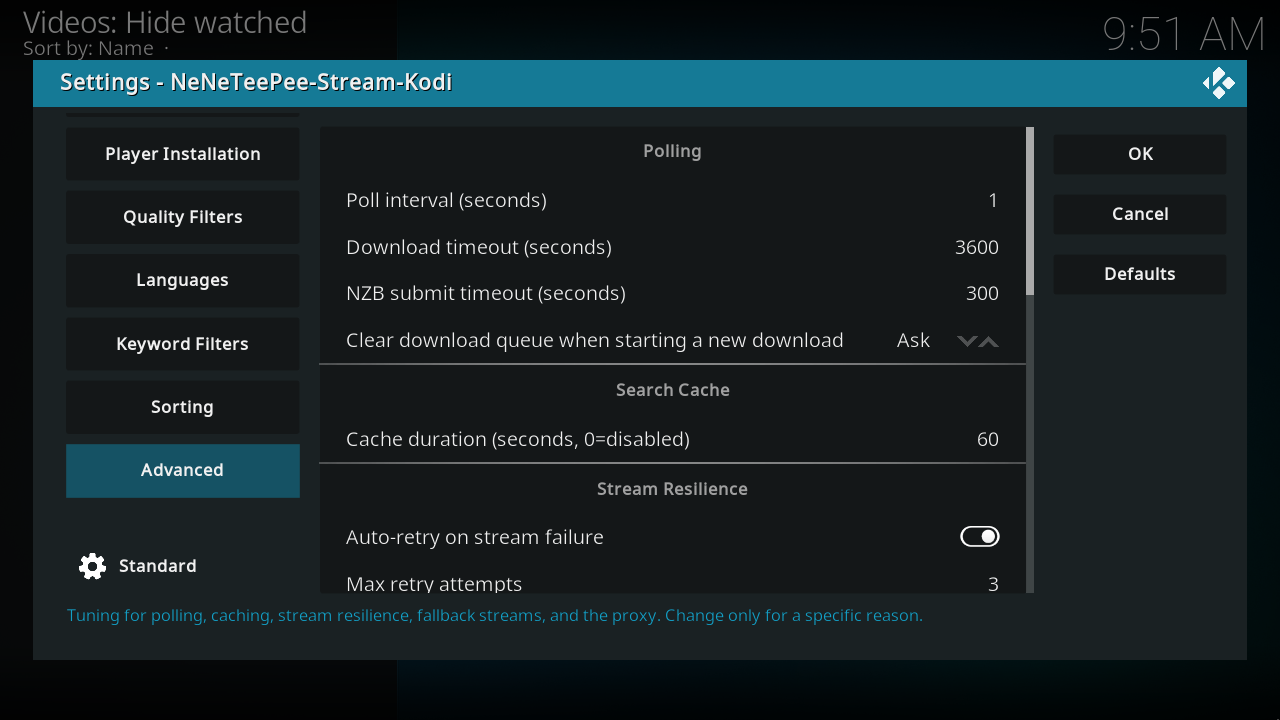
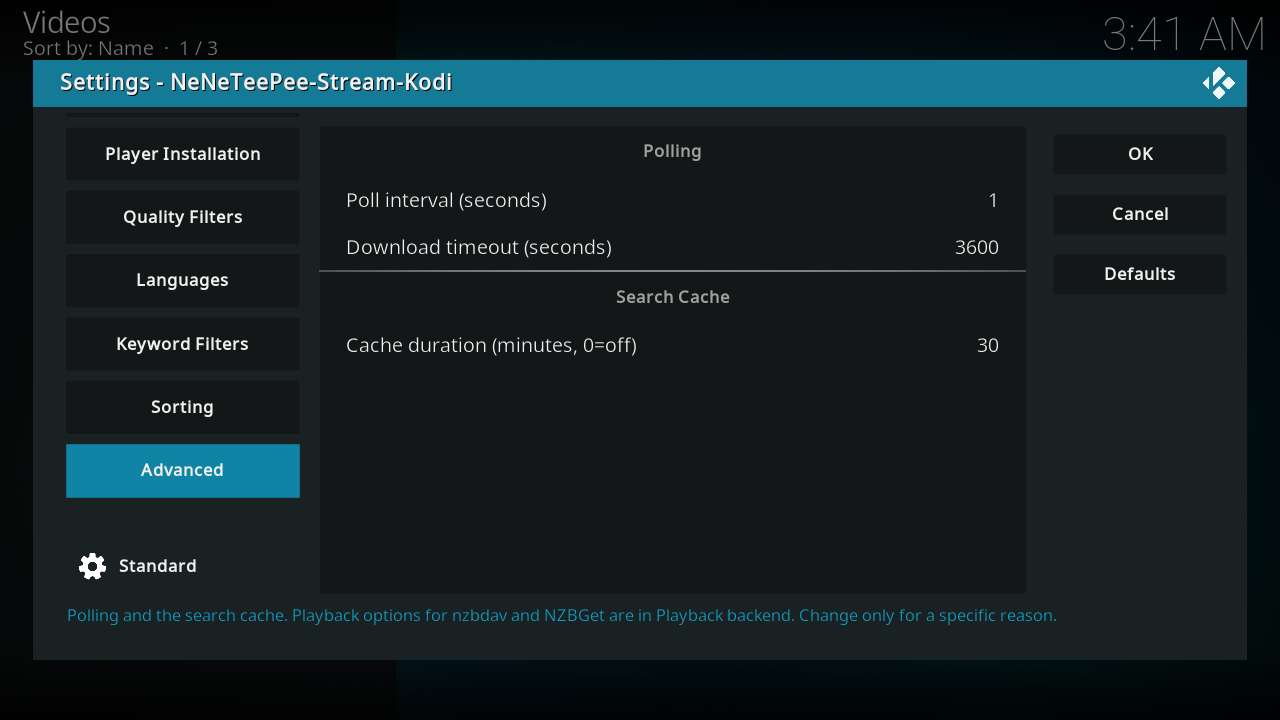
Docs: recapture Playback backend and Advanced screenshots
Recaptured on a fresh OrbStack VM (kodi-shots: Ubuntu 24.04, Kodi 21.3,
Estuary, 1280x720, Standard level) from this branch, with the same
synthetic example values as before.

- The Playback backend views for nzbdav (3 scrolled views), NZBGet (2),
  and StreamNZB show the moved options and the per-backend visibility.
- Advanced now fits on one screen (polling and the search cache), so
  advanced-02.png and advanced-03.png are removed.
- The capture manifest hashes and Capture details are updated, and the
  "screenshot predates the move" notes are removed.

The same session confirmed the live show/hide in real Kodi: switching
the backend in an open dialog shows and hides the moved options without
leaving the tab, and Kodi honors operator="!is" for stream resilience.

diff --git a/docs-site/settings/index.md b/docs-site/settings/index.md
@@ -19,7 +19,9 @@ The tab guides explain every option. This includes buttons and hidden state fiel
 
 ## Capture details
 
-These are real 1280 × 720 screenshots from the `kodi-ebml` OrbStack VM using Kodi's Estuary skin. The add-on files came from `origin/main` at commit [`db07f61d4090a0c89ec8461ee9b3ca34f9607aa6`](https://github.com/Appz4Fun/NeNeTeePee-Stream-Kodi/commit/db07f61d4090a0c89ec8461ee9b3ca34f9607aa6), fetched on October 3, 2026. The remote has no `master` branch.
+These are real 1280 × 720 screenshots from Kodi 21.3 using the Estuary skin. Most tabs came from the `kodi-ebml` OrbStack VM. Their add-on files came from `origin/main` at commit [`db07f61d4090a0c89ec8461ee9b3ca34f9607aa6`](https://github.com/Appz4Fun/NeNeTeePee-Stream-Kodi/commit/db07f61d4090a0c89ec8461ee9b3ca34f9607aa6), fetched on October 3, 2026. The remote has no `master` branch.
+
+The **Playback backend** and **Advanced** screenshots were recaptured on October 11, 2026, after options moved between those tabs. They came from a fresh `kodi-shots` OrbStack VM, with the add-on installed from commit [`5a50676c56f2b4c2fa19a2f52df6157a1a939e18`](https://github.com/Appz4Fun/NeNeTeePee-Stream-Kodi/commit/5a50676c56f2b4c2fa19a2f52df6157a1a939e18).
 
 Debug overlays were turned off before capture. Connection examples use `192.0.2.10` and dummy credentials. They do not show working servers or account secrets. Scrolled views overlap to keep the surrounding controls visible. The [capture manifest](../images/kodi/capture-manifest.json) records the context and checksum for each screenshot. The **Standard** setting level shows this add-on's visible options; hidden migration fields do not appear in screenshots.
 

diff --git a/docs-site/settings/backend.md b/docs-site/settings/backend.md
@@ -6,16 +6,25 @@ These options appear in the same tab, after the selected backend's connection fi
 
 ## Kodi screenshots
 
-!!! note
-    The screenshots predate moving the submit, resilience, fallback, proxy, and pass-through options from **Advanced** to this tab. Current builds show those options after the connection fields.
+With **nzbdav / InfiniDysk** selected, the list scrolls through the connection fields and every playback option:
 
-![Playback backend, view 1](../images/kodi/backend-nzbdav.png)
+![Playback backend with nzbdav / InfiniDysk, view 1](../images/kodi/backend-nzbdav.png)
 
-![Playback backend, view 2](../images/kodi/backend-nzbget.png)
+![Playback backend with nzbdav / InfiniDysk, view 2](../images/kodi/backend-nzbdav-02.png)
 
-![Playback backend, view 3](../images/kodi/backend-streamnzb.png)
+![Playback backend with nzbdav / InfiniDysk, view 3](../images/kodi/backend-nzbdav-03.png)
 
-Captured on the OrbStack Kodi VM from commit `db07f61`. Debug overlays are off, and credentials use example values. [Capture details](index.md#capture-details).
+With **NZBGet** selected, the stream resilience options follow the NZBGet connection fields:
+
+![Playback backend with NZBGet, view 1](../images/kodi/backend-nzbget.png)
+
+![Playback backend with NZBGet, view 2](../images/kodi/backend-nzbget-02.png)
+
+With **StreamNZB** selected, only the server URL and stream token appear:
+
+![Playback backend with StreamNZB](../images/kodi/backend-streamnzb.png)
+
+Captured on the OrbStack Kodi VM from commit `5a50676`. Debug overlays are off, and credentials use example values. [Capture details](index.md#capture-details).
 
 ## Every option
 

diff --git a/docs-site/backends/nzbdav.md b/docs-site/backends/nzbdav.md
@@ -7,12 +7,13 @@
 
 Use [nzbdav](https://github.com/nzbdav-dev/nzbdav) or [InfiniDysk](https://www.infinidysk.com/) for server installation and configuration instructions. Start with a running server that Kodi can reach.
 
-![Example add-on settings for nzbdav](../images/kodi/backend-nzbdav.png)
+![Example add-on settings for nzbdav, view 1](../images/kodi/backend-nzbdav.png)
 
-!!! note
-    This screenshot predates moving the submit, retry, fallback, proxy, and pass-through options from **Advanced** to **Playback backend**. Current builds list those options after the connection fields.
+![Example add-on settings for nzbdav, view 2](../images/kodi/backend-nzbdav-02.png)
 
-This is a real Kodi screenshot from the captured `origin/main` build, using example values. See the [complete Playback backend settings](../settings/backend.md) for every option and commit-pinned source footnotes.
+![Example add-on settings for nzbdav, view 3](../images/kodi/backend-nzbdav-03.png)
+
+These are real Kodi screenshots from the [captured add-on build](../settings/index.md#capture-details), using example values. See the [complete Playback backend settings](../settings/backend.md) for every option and commit-pinned source footnotes.
 
 ## Configure the add-on
 

diff --git a/docs-site/backends/nzbget.md b/docs-site/backends/nzbget.md
@@ -7,12 +7,11 @@
 
 Use [NZBGet](https://github.com/nzbgetcom/nzbget) for server installation and configuration instructions. Start with a running server that Kodi can reach.
 
-![Example add-on settings for nzbget](../images/kodi/backend-nzbget.png)
+![Example add-on settings for nzbget, view 1](../images/kodi/backend-nzbget.png)
 
-!!! note
-    This screenshot predates moving the stream resilience options from **Advanced** to **Playback backend**. Current builds list those options after the connection fields. The other moved options apply only to nzbdav / InfiniDysk.
+![Example add-on settings for nzbget, view 2](../images/kodi/backend-nzbget-02.png)
 
-This is a real Kodi screenshot from the captured `origin/main` build, using example values. See the [complete Playback backend settings](../settings/backend.md) for every option and commit-pinned source footnotes.
+These are real Kodi screenshots from the [captured add-on build](../settings/index.md#capture-details), using example values. See the [complete Playback backend settings](../settings/backend.md) for every option and commit-pinned source footnotes.
 
 ## Configure the add-on
 

diff --git a/docs-site/settings/advanced.md b/docs-site/settings/advanced.md
@@ -7,16 +7,9 @@ These options tune how the add-on polls for downloads and caches search results.
 
 ## Kodi screenshots
 
-!!! note
-    The screenshots predate moving options to **Playback backend**. Current builds show only polling and search cache options on this tab.
+![Advanced tab](../images/kodi/advanced-01.png)
 
-![Advanced, view 1](../images/kodi/advanced-01.png)
-
-![Advanced, view 2](../images/kodi/advanced-02.png)
-
-![Advanced, view 3](../images/kodi/advanced-03.png)
-
-Captured on the OrbStack Kodi VM from commit `db07f61`. Debug overlays are off, and credentials use example values. [Capture details](index.md#capture-details).
+Captured on the OrbStack Kodi VM from commit `5a50676`. Debug overlays are off, and credentials use example values. [Capture details](index.md#capture-details).
 
 ## Every option
 

diff --git a/docs-site/backends/streamnzb.md b/docs-site/backends/streamnzb.md
@@ -9,7 +9,7 @@ Use [StreamNZB](https://github.com/Gaisberg/streamnzb) for server installation a
 
 ![Example add-on settings for streamnzb](../images/kodi/backend-streamnzb.png)
 
-This is a real Kodi screenshot from the captured `origin/main` build, using example values. See the [complete Playback backend settings](../settings/backend.md) for every option and commit-pinned source footnotes.
+This is a real Kodi screenshot from the [captured add-on build](../settings/index.md#capture-details), using example values. See the [complete Playback backend settings](../settings/backend.md) for every option and commit-pinned source footnotes.
 
 ## Configure the add-on
 
